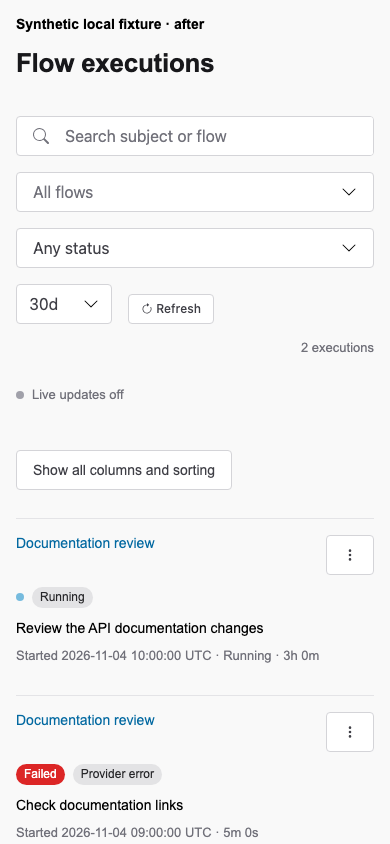
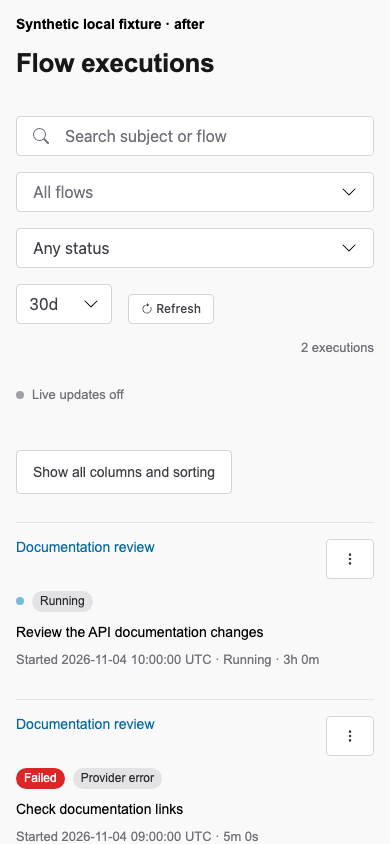
Align mobile focus order and render only active execution view

diff --git a/frontend/src/views/authed/flow-executions-view.ts b/frontend/src/views/authed/flow-executions-view.ts
@@ -88,6 +88,10 @@ import {
 } from '../../components/token-figures';
 import type { ResourceAction } from '../../components/resource-actions';
 import { actionsFor } from '../../actions';
+import {
+  subscribeNarrowViewport,
+  type NarrowViewportSubscription,
+} from '../../utils/view-mode';
 
 interface FlowExecution {
   id: string;
@@ -190,7 +194,7 @@ export class FlowExecutionsView extends AuthedElement {
           background: var(--sl-color-neutral-0);
           color: var(--sl-color-neutral-700);
           font: inherit;
-          min-height: 40px;
+          min-height: 44px;
           padding: 0 var(--sl-spacing-medium);
           cursor: pointer;
         }
@@ -213,7 +217,6 @@ export class FlowExecutionsView extends AuthedElement {
           .execution-summaries {
             display: grid;
             gap: var(--sl-spacing-medium);
-            order: -2;
             margin-top: var(--sl-spacing-medium);
           }
           .execution-summary {
@@ -252,14 +255,7 @@ export class FlowExecutionsView extends AuthedElement {
           .mobile-table-toggle {
             display: block;
             align-self: start;
-            order: -3;
             margin: var(--sl-spacing-small) 0;
-          }
-          .execution-results.table-expanded .execution-summaries {
-            display: none;
-          }
-          .execution-results .table-wrapper:not(.mobile-expanded) {
-            display: none;
           }
         }
         .table-wrapper {
@@ -579,6 +575,22 @@ export class FlowExecutionsView extends AuthedElement {
   });
 
   @state() private mobileTableExpanded = false;
+  @state() private narrowViewport = false;
+  private viewportSubscription?: NarrowViewportSubscription;
+
+  constructor() {
+    super();
+    // Keep viewport ownership separate from the execution request lifecycle.
+    this.addController({
+      hostConnected: () => {
+        this.viewportSubscription = subscribeNarrowViewport((narrow) => {
+          this.narrowViewport = narrow;
+        });
+        this.narrowViewport = this.viewportSubscription.matches;
+      },
+      hostDisconnected: () => this.viewportSubscription?.disconnect(),
+    });
+  }
 
   private searchDebounceId?: number;
 
@@ -1501,6 +1513,7 @@ export class FlowExecutionsView extends AuthedElement {
   }
 
   render() {
+    const showTable = !this.narrowViewport || this.mobileTableExpanded;
     return html`
       <view-header headerText="Flow executions" width="wide"></view-header>
       <div class="column-layout wide">
@@ -1517,40 +1530,7 @@ export class FlowExecutionsView extends AuthedElement {
                   nothing
                 : this.renderEmptyState()
               : html`
-                  <div
-                    class="execution-results ${this.mobileTableExpanded ? 'table-expanded' : ''}"
-                  >
-                    <div
-                      id="execution-detail-table"
-                      class="table-wrapper ${this.mobileTableExpanded ? 'mobile-expanded' : ''}"
-                    >
-                      <div class="table-scroll">
-                        <table>
-                          <thead>
-                            <tr>
-                              ${renderListHeaders(this.table)}
-                              <th class="actions-cell">
-                                <div class="table-header-content">
-                                  ${renderHeaderColumnPicker(this.table, false)}
-                                </div>
-                              </th>
-                            </tr>
-                          </thead>
-                          <tbody>
-                            ${this.paginatedExecutions.map((exec) =>
-                              this.renderRow(exec)
-                            )}
-                          </tbody>
-                        </table>
-                      </div>
-                    </div>
-
-                    <div
-                      class="execution-summaries"
-                      aria-label="Execution summaries"
-                    >
-                      ${this.paginatedExecutions.map((exec) => this.renderMobileSummary(exec))}
-                    </div>
+                  <div class="execution-results">
                     <button
                       type="button"
                       class="mobile-table-toggle"
@@ -1560,6 +1540,47 @@ export class FlowExecutionsView extends AuthedElement {
                     >
                       ${this.mobileTableExpanded ? 'Show summaries' : 'Show all columns and sorting'}
                     </button>
+                    <div
+                      id="execution-detail-table"
+                      class="table-wrapper"
+                      ?hidden=${!showTable}
+                    >
+                      ${
+                        showTable
+                          ? html`
+                              <div class="table-scroll">
+                                <table>
+                                  <thead>
+                                    <tr>
+                                      ${renderListHeaders(this.table)}
+                                      <th class="actions-cell">
+                                        <div class="table-header-content">
+                                          ${renderHeaderColumnPicker(this.table, false)}
+                                        </div>
+                                      </th>
+                                    </tr>
+                                  </thead>
+                                  <tbody>
+                                    ${this.paginatedExecutions.map((exec) =>
+                                      this.renderRow(exec)
+                                    )}
+                                  </tbody>
+                                </table>
+                              </div>
+                            `
+                          : nothing
+                      }
+                    </div>
+                    ${
+                      !showTable
+                        ? html` <div
+                            class="execution-summaries"
+                            aria-label="Execution summaries"
+                          >
+                            ${this.paginatedExecutions.map((exec) => this.renderMobileSummary(exec))}
+                          </div>`
+                        : nothing
+                    }
                   </div>
 
                   <table-pagination

diff --git a/frontend/src/views/authed/mobile-lists.test.ts b/frontend/src/views/authed/mobile-lists.test.ts
@@ -76,6 +76,7 @@ describe('Mobile tools and execution lists', () => {
         expect(getComputedStyle(controls).display).to.equal('none');
         expect(editor.getBoundingClientRect().top).to.be.lessThan(650);
         expect(toggle.getAttribute('aria-expanded')).to.equal('false');
+        expect(toggle.getBoundingClientRect().height).to.be.at.least(44);
         toggle.focus();
         await sendKeys({ press: 'Enter' });
         await el.updateComplete;
@@ -125,7 +126,10 @@ describe('Mobile tools and execution lists', () => {
         html`<flow-executions-view></flow-executions-view>`
       );
       await waitUntil(
-        () => el.shadowRoot!.querySelectorAll('.execution-summary').length === 3
+        () =>
+          el.shadowRoot!.querySelectorAll(
+            width <= 640 ? '.execution-summary' : 'tbody tr'
+          ).length === 3
       );
       await nextFrame();
       const root = el.shadowRoot!;
@@ -133,8 +137,19 @@ describe('Mobile tools and execution lists', () => {
         ...root.querySelectorAll<HTMLElement>('.execution-summary'),
       ];
       const wrapper = root.querySelector<HTMLElement>('.table-wrapper')!;
+      expect(root.querySelectorAll('resource-actions')).to.have.length(3);
       if (width <= 640) {
         expect(getComputedStyle(wrapper).display).to.equal('none');
+        expect(root.querySelector('table')).to.not.exist;
+        const disclosure = root.querySelector<HTMLButtonElement>(
+          '.mobile-table-toggle'
+        )!;
+        expect(disclosure.getBoundingClientRect().height).to.be.at.least(44);
+        disclosure.focus();
+        await sendKeys({ press: 'Tab' });
+        expect(root.activeElement).to.equal(
+          cards[0].querySelector('.row-link')
+        );
         for (const card of cards) {
           for (const selector of [
             '.row-link',
@@ -209,16 +224,25 @@ describe('Mobile tools and execution lists', () => {
         await el.updateComplete;
         expect(getComputedStyle(wrapper).display).to.not.equal('none');
         expect(toggle.getAttribute('aria-expanded')).to.equal('true');
-        expect(
-          getComputedStyle(root.querySelector('.execution-summaries')!).display
-        ).to.equal('none');
+        expect(root.querySelector('.execution-summaries')).to.not.exist;
+        expect(root.querySelectorAll('resource-actions')).to.have.length(3);
+        await sendKeys({ press: 'Tab' });
+        expect(wrapper.contains(root.activeElement)).to.equal(true);
         expect(root.querySelector('column-picker')).to.exist;
         expect(root.querySelectorAll('tbody tr')).to.have.length(3);
       } else {
-        expect(
-          getComputedStyle(root.querySelector('.execution-summaries')!).display
-        ).to.equal('none');
+        expect(root.querySelector('.execution-summaries')).to.not.exist;
         expect(getComputedStyle(wrapper).display).to.not.equal('none');
+        await setViewport({ width: 390, height: 844 });
+        await waitUntil(
+          () => root.querySelectorAll('.execution-summary').length === 3
+        );
+        expect(root.querySelector('table')).to.not.exist;
+        expect(root.querySelectorAll('resource-actions')).to.have.length(3);
+        await setViewport({ width: 1440, height: 844 });
+        await waitUntil(() => root.querySelectorAll('tbody tr').length === 3);
+        expect(root.querySelector('.execution-summaries')).to.not.exist;
+        expect(root.querySelectorAll('resource-actions')).to.have.length(3);
       }
     });
   }

diff --git a/frontend/src/views/authed/tools-view.ts b/frontend/src/views/authed/tools-view.ts
@@ -262,7 +262,7 @@ export class ToolsView extends LitElement {
         background: var(--sl-color-neutral-0);
         color: var(--sl-color-neutral-700);
         font: inherit;
-        min-height: 40px;
+        min-height: 44px;
         padding: 0 var(--sl-spacing-medium);
         cursor: pointer;
       }
